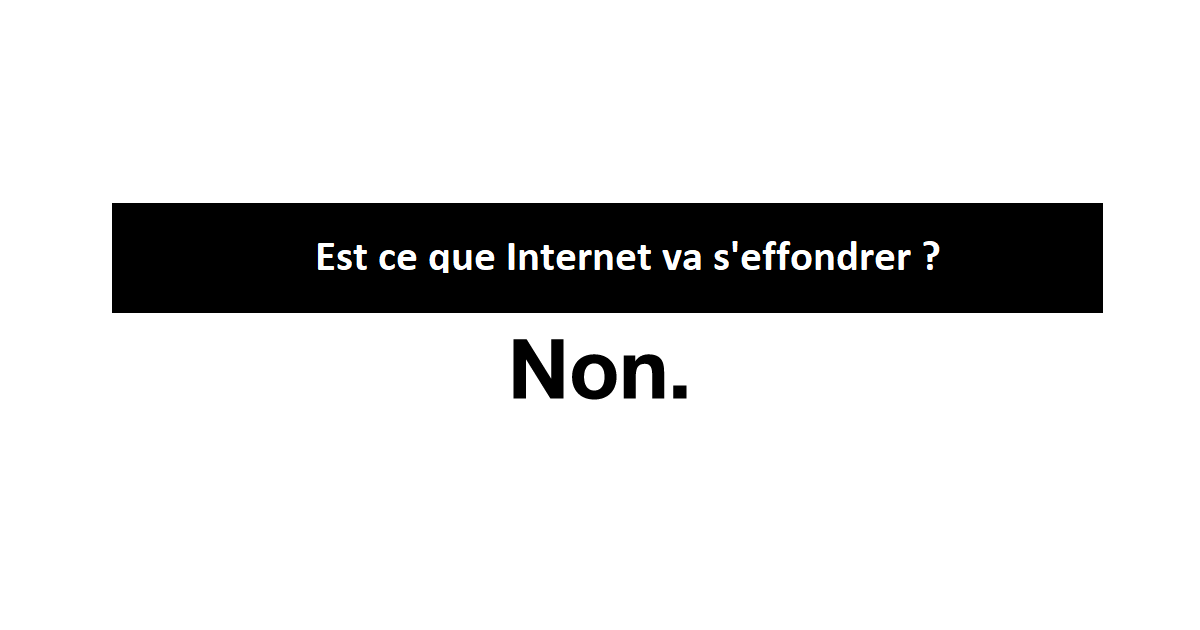
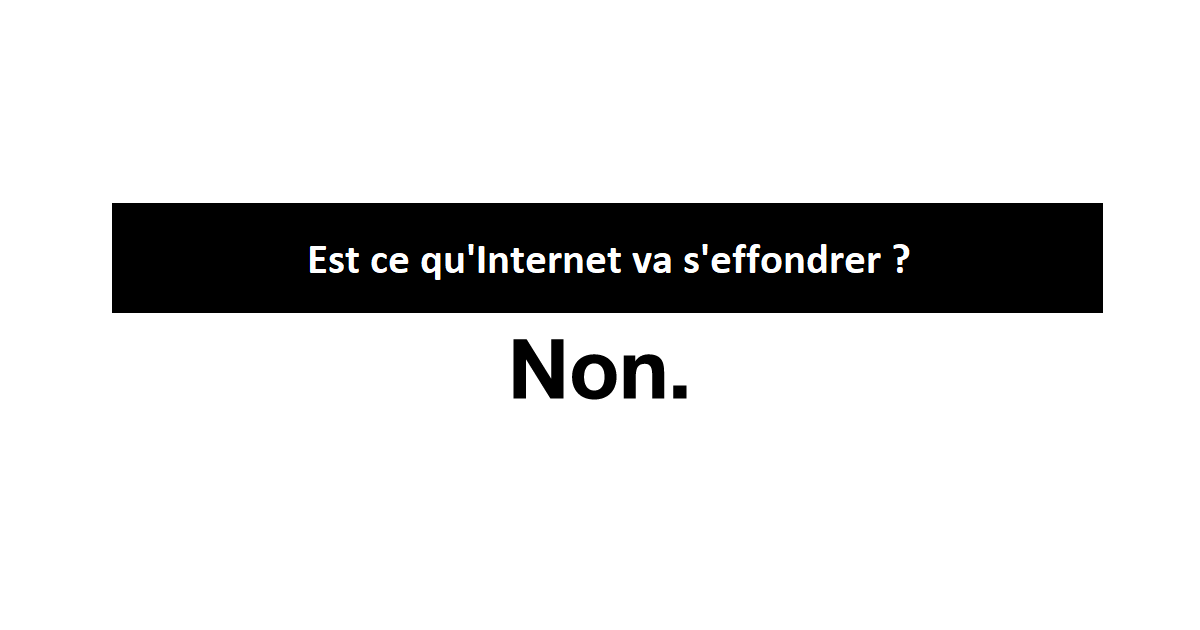
Correction faute de frappe

Changed region(s): [[0.2467, 0.3619, 0.8017, 0.4524]]

diff --git a/index.html b/index.html
@@ -14,7 +14,7 @@
         <meta charset="utf-8">
         <meta name="viewport" content="width=device-width, initial-scale=1, shrink-to-fit=no">
 
-        <title>Est-ce que Internet va s'effondrer ?</title>
+        <title>Est-ce qu'Internet va s'effondrer ?</title>
         <meta name="description" content="Non. Internet est loin de s'effondrer.">
 
         <link rel="stylesheet" href="/style.css">
@@ -24,15 +24,15 @@
         <link rel="icon" type="image/png" sizes="16x16" href="/favicon-16x16.png">
         <link rel="manifest" href="/site.webmanifest">
 
-        <meta property="og:title" content="Est-ce que Internet va s'effondrer ?">
-        <meta property="og:site_name" content="Est-ce que Internet va s'effondrer ?">
+        <meta property="og:title" content="Est-ce qu'Internet va s'effondrer ?">
+        <meta property="og:site_name" content="Est-ce qu'Internet va s'effondrer ?">
         <meta property="og:url" content="https://estcequeinternetvaseffondrer.fr/">
         <meta property="og:description" content="Non. Internet est loin de s'effondrer.">
         <meta property="og:type" content="website">
         <meta property="og:image" content="https://estcequeinternetvaseffondrer.fr/images/cover-internet.png">
 
         <meta name="twitter:card" content="summary_large_image" />
-        <meta name="twitter:title" content="Est-ce que Internet va s'effondrer ?" />
+        <meta name="twitter:title" content="Est-ce qu'Internet va s'effondrer ?" />
         <meta name="twitter:description" content="Non. Internet est loin de s'effondrer." />
         <meta name="twitter:image" content="https://estcequeinternetvaseffondrer.fr/images/cover-internet.png">
 
@@ -43,7 +43,7 @@
     <div id="page">
 
             <header class="header">
-                <h1 class="header-title">Est-ce que Internet va s'effondrer ?</h1>
+                <h1 class="header-title">Est-ce qu'Internet va s'effondrer ?</h1>
             </header>
 
             <section class="message">
